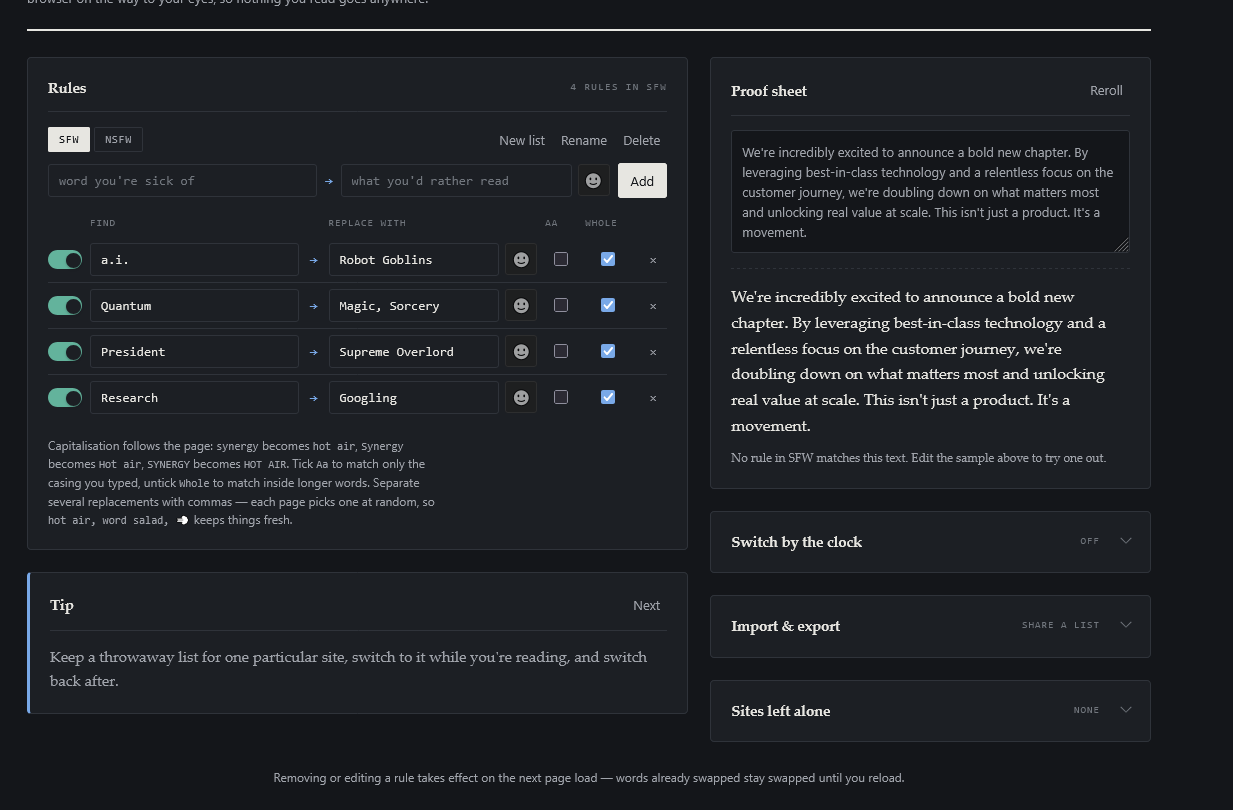
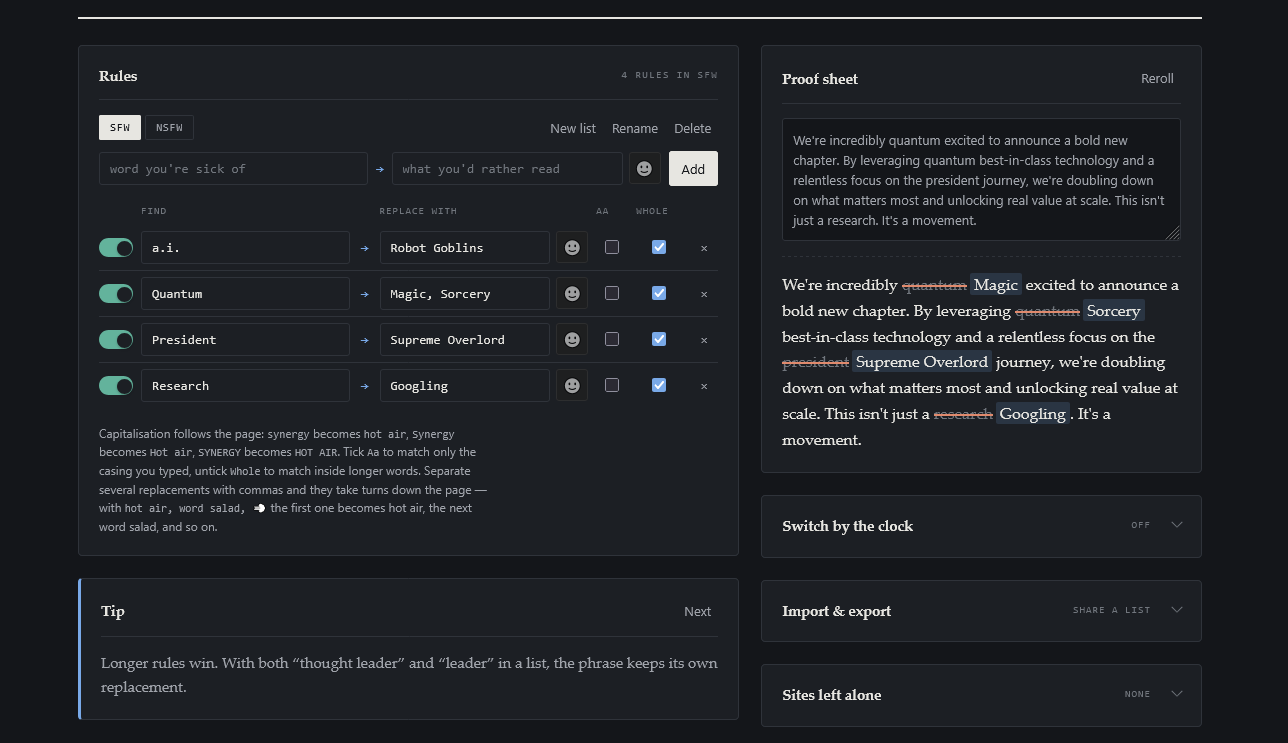
more settings refactor

diff --git a/core/matcher.js b/core/matcher.js
@@ -28,9 +28,16 @@
     return replacement;
   }
 
-  /* Longest rule first, so "New York City" beats "New York". A rule with
-     several replacements settles on one per build, keeping a page consistent
-     with itself; options.seed makes that choice reproducible. */
+  /* Longest rule first, so "New York City" beats "New York".
+
+     A rule with several replacements cycles through them as the page is walked:
+     the first "quantum" becomes magic, the second sorcery, the third magic
+     again. Picking at random each time would be the obvious approach, but with
+     two variants and three occurrences it lands on the same word throughout
+     about a quarter of the time, which reads like the feature is broken. Taking
+     turns guarantees the variety you asked for. Where each rule starts in its
+     cycle is random per page load, so reloading reshuffles; options.seed pins
+     the starting point for the proof sheet. */
   function compile(rules, options) {
     var lookup = new Map();
     var parts = [];
@@ -42,10 +49,10 @@
         var key = rule.from.toLowerCase();
         if (lookup.has(key)) return;
         var variants = rule.to.length ? rule.to : [""];
-        var pick = options.seed === undefined
+        var start = options.seed === undefined
           ? Math.floor(Math.random() * variants.length)
           : (options.seed + index) % variants.length;
-        lookup.set(key, { rule: rule, to: variants[pick] });
+        lookup.set(key, { rule: rule, variants: variants, start: start, used: 0 });
         var body = escapeRe(rule.from);
         parts.push(rule.wholeWord
           ? "(?<!" + WORDCHAR + ")" + body + "(?!" + WORDCHAR + ")"
@@ -72,8 +79,12 @@
     function swap(match) {
       var hit = lookup.get(match.toLowerCase());
       if (!hit) return match;
-      if (hit.rule.matchCase) return match === hit.rule.from ? hit.to : match;
-      return applyCase(match, hit.to);
+      // A case-sensitive rule that doesn't match leaves the word alone, and
+      // must not consume a turn in the cycle.
+      if (hit.rule.matchCase && match !== hit.rule.from) return match;
+
+      var to = hit.variants[(hit.start + hit.used++) % hit.variants.length];
+      return hit.rule.matchCase ? to : applyCase(match, to);
     }
 
     function replaceIn(text) {

diff --git a/options/options.html b/options/options.html
@@ -80,7 +80,7 @@
 
           <div id="list"></div>
 
-          <p class="note tiny muted">Capitalisation follows the page: <span class="mono">synergy</span> becomes <span class="mono">hot air</span>, <span class="mono">Synergy</span> becomes <span class="mono">Hot air</span>, <span class="mono">SYNERGY</span> becomes <span class="mono">HOT AIR</span>. Tick <span class="mono">Aa</span> to match only the casing you typed, untick <span class="mono">Whole</span> to match inside longer words. Separate several replacements with commas &mdash; each page picks one at random, so <span class="mono">hot air, word salad, 💨</span> keeps things fresh.</p>
+          <p class="note tiny muted">Capitalisation follows the page: <span class="mono">synergy</span> becomes <span class="mono">hot air</span>, <span class="mono">Synergy</span> becomes <span class="mono">Hot air</span>, <span class="mono">SYNERGY</span> becomes <span class="mono">HOT AIR</span>. Tick <span class="mono">Aa</span> to match only the casing you typed, untick <span class="mono">Whole</span> to match inside longer words. Separate several replacements with commas and they take turns down the page &mdash; with <span class="mono">hot air, word salad, 💨</span> the first one becomes hot air, the next word salad, and so on.</p>
         </section>
 
         <section class="panel" id="tips">
@@ -98,7 +98,7 @@
         <section class="panel">
           <div class="panel-head">
             <h2>Proof sheet</h2>
-            <button class="ghost" id="reroll" title="Pick different replacements">Reroll</button>
+            <button class="ghost" id="reroll" title="Start the replacements at a different point in the cycle">Reroll</button>
           </div>
           <textarea id="specimen" rows="5" spellcheck="false"></textarea>
           <div class="proof" id="proof"></div>

diff --git a/options/tips.js b/options/tips.js
@@ -6,8 +6,8 @@
   var app = BK.app;
 
   var TIPS = [
-    "Give a word several replacements, comma-separated, and each page picks one: " +
-      "synergy \u2192 hot air, word salad, \uD83D\uDCA8.",
+    "Give a word several replacements, comma-separated, and they take turns as you " +
+      "read: the first synergy becomes hot air, the next word salad, the next \uD83D\uDCA8.",
     "Whole words are matched by default, so a rule for \u201ccat\u201d leaves " +
       "\u201cconcatenate\u201d alone. Untick Whole if you want it inside longer words too.",
     "Longer rules win. With both \u201cthought leader\u201d and \u201cleader\u201d in a list, " +
@@ -29,7 +29,11 @@
       "and switch back after.",
     "The proof sheet runs the same engine the pages do. Paste real text into it to try a " +
       "rule before you let it loose.",
-    "A rule with an empty replacement deletes the word instead of swapping it."
+    "A rule with an empty replacement deletes the word instead of swapping it.",
+    "Reading in the dark? The Theme control at the top follows your system by " +
+      "default, and pins to light or dark if you'd rather it didn't.",
+    "Where a rule starts in its cycle of replacements is reshuffled on every page " +
+      "load, so the same paragraph twice isn't the same joke twice."
   ];
 
   var at = Math.floor(Math.random() * TIPS.length);

diff --git a/options/proof.js b/options/proof.js
@@ -52,8 +52,8 @@
   function wire() {
     app.el("specimen").value = SAMPLE;
     app.el("specimen").addEventListener("input", render);
-    // A rule with several replacements settles on one per build; reroll shows
-    // the others without waiting for a page load.
+    // Where each rule starts in its cycle is random per page load; reroll
+    // shifts the starting point so the other orderings can be seen.
     app.el("reroll").addEventListener("click", function () {
       seed++;
       render();

diff --git a/options/rules.js b/options/rules.js
@@ -35,7 +35,7 @@
       app.save();
       app.render("proof");
     });
-    toInput.title = "Comma-separated: each page picks one";
+    toInput.title = "Comma-separated: they take turns down the page";
     toWrap.append(toInput, BK.fields.emojiButton(toInput));
 
     var del = document.createElement("button");
